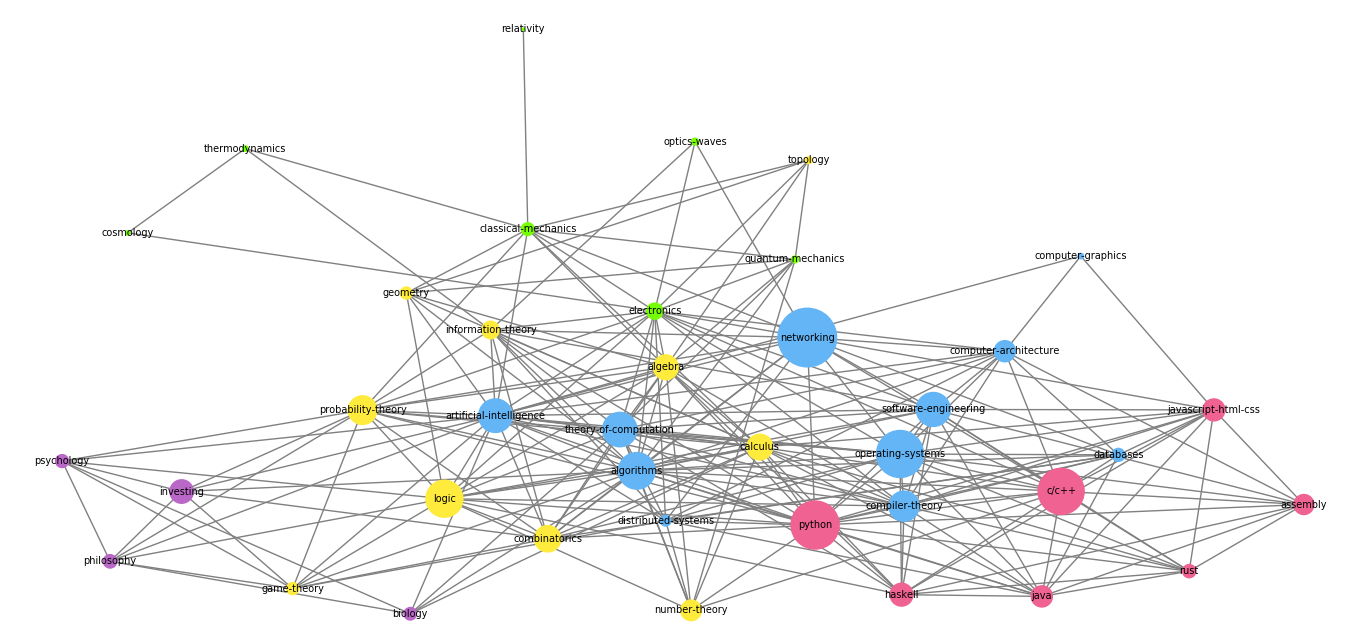
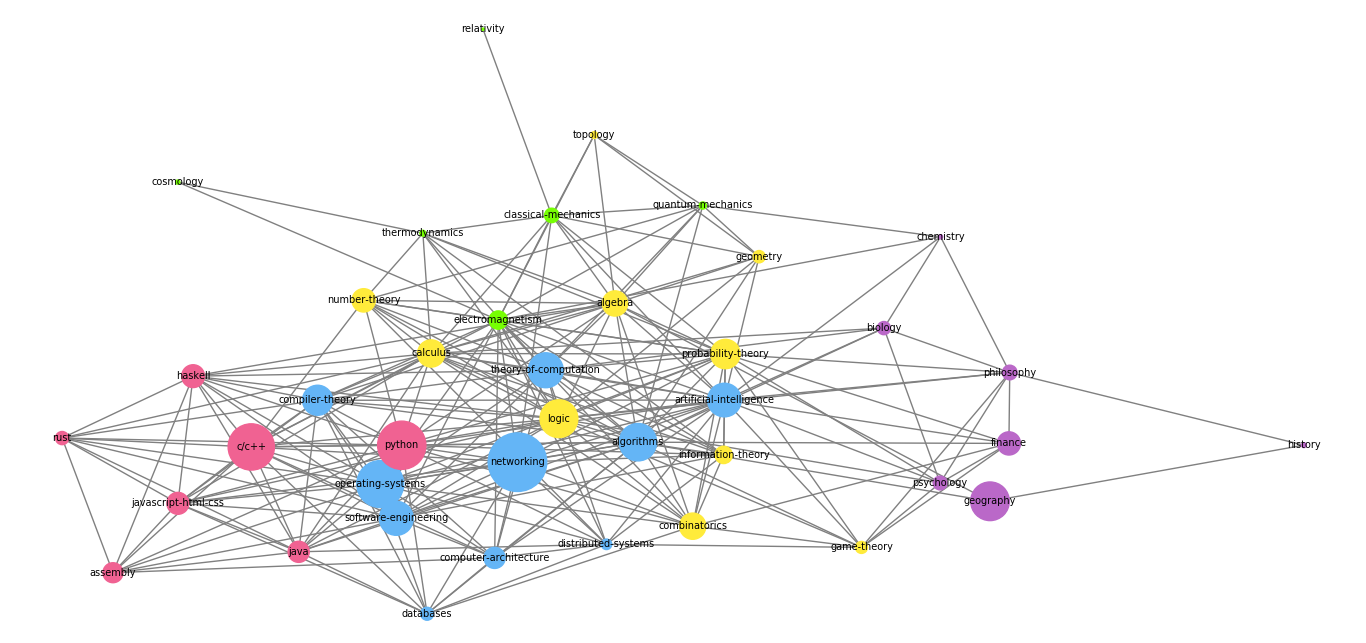
added audio in anki dictionary automation

diff --git a/anki-tools/add_dictionary_word.py b/anki-tools/add_dictionary_word.py
@@ -21,9 +21,23 @@ def invoke(action, **params):
 
 parser = WiktionaryParser()
 ws = input("Enter comma separated words: ").split(',')
+# parser.set_default_language('German')
 
 for w in ws:
     word = parser.fetch(w)
+    audio_file = 'a'
+    audio = []
+
+    try:
+        audio.append({
+                        "url": "https:" + word[0]['pronunciations']['audio'][0],
+                        "filename": w + "-en.mp3", # en English suffix
+                        "fields": [
+                            "Audio"
+                        ]
+                    })
+    except IndexError:
+        pass
 
     try:
         definition = word[0]['definitions'][0]
@@ -65,7 +79,28 @@ for w in ws:
     except IndexError:
         examples = ''
 
-    note = {"note": {"deckName": "~Miscellaneous", "modelName": "Vocabulary", "fields": {"Word": w, "Part of Speech" : definition['partOfSpeech'], "IPA": ipa, "Definition": definition['text'][1], "Examples": examples}, "options": {"allowDuplicate": False, "duplicateScope": "deck"}}}
+    note = {
+            "note":
+                {
+                    "deckName": "Languages::English 🇰🇪🇺🇸🇬🇧🇿🇦",
+                    "modelName": "Vocabulary",
+                    "fields": {
+                        "Word": w,
+                        "Part of Speech": definition['partOfSpeech'],
+                        "IPA": ipa,
+                        "Definition": definition['text'][1],
+                        "Examples": examples
+                        },
+                    "options": {
+                        "allowDuplicate": False,
+                        "duplicateScope": "collection"
+                        },
+                    "audio": []
+                }
+            }
+    
+    if len(audio) != 0:
+        note["note"]["audio"] = audio
 
     try:
         result = invoke('addNote', **note)

diff --git a/codeforces/template.cpp b/codeforces/template.cpp
@@ -13,13 +13,25 @@ using namespace std;
 #define FOR(i, n) for (int i = 0; i < n; i++)
 #define GCD(a,b) __gcd(a, b);
 #define LCM(a,b) (a) * ((b) / __gcd(a, b));
-// add powmod
 
 typedef long long ll;
 typedef vector<int> vi;
 typedef pair<int, int> pii;
 
 const ll MOD = 1e9 + 7;
+
+template <typename T>
+T modpow(T base, T exp, T modulus) {
+    base %= modulus;
+    T result = 1;
+    while (exp > 0) {
+        if (exp & 1)
+            result = (result * base) % modulus;
+            base = (base * base) % modulus;
+            exp >>= 1;
+    }
+    return result;
+}
 
 // debugging i.e debug(_(c) << _(b));
 

diff --git a/anki-tools/tag-visualize-pagerank.py b/anki-tools/tag-visualize-pagerank.py
@@ -63,6 +63,7 @@ f.close()
 
 fig = plt.gcf()
 fig.set_size_inches(13.66, 6.43)
+nx.nx_pydot.graphviz_layout(G)
 nx.draw(G, pos = nx.nx_pydot.graphviz_layout(G), node_size = node_sizes, with_labels = True, font_size = 7, node_color = node_colors, edge_color = "gray")
 fig.savefig("knowledge-graph.png", dpi=100)
 plt.show()

diff --git a/codeforces/template.py b/codeforces/template.py
@@ -1,0 +1,7 @@
+from math import factorial, gcd, floor, ceil
+
+lcm = lambda x, y: x * y / gcd(x, y)
+
+# add debug
+
+MOD = 1e9 + 7
